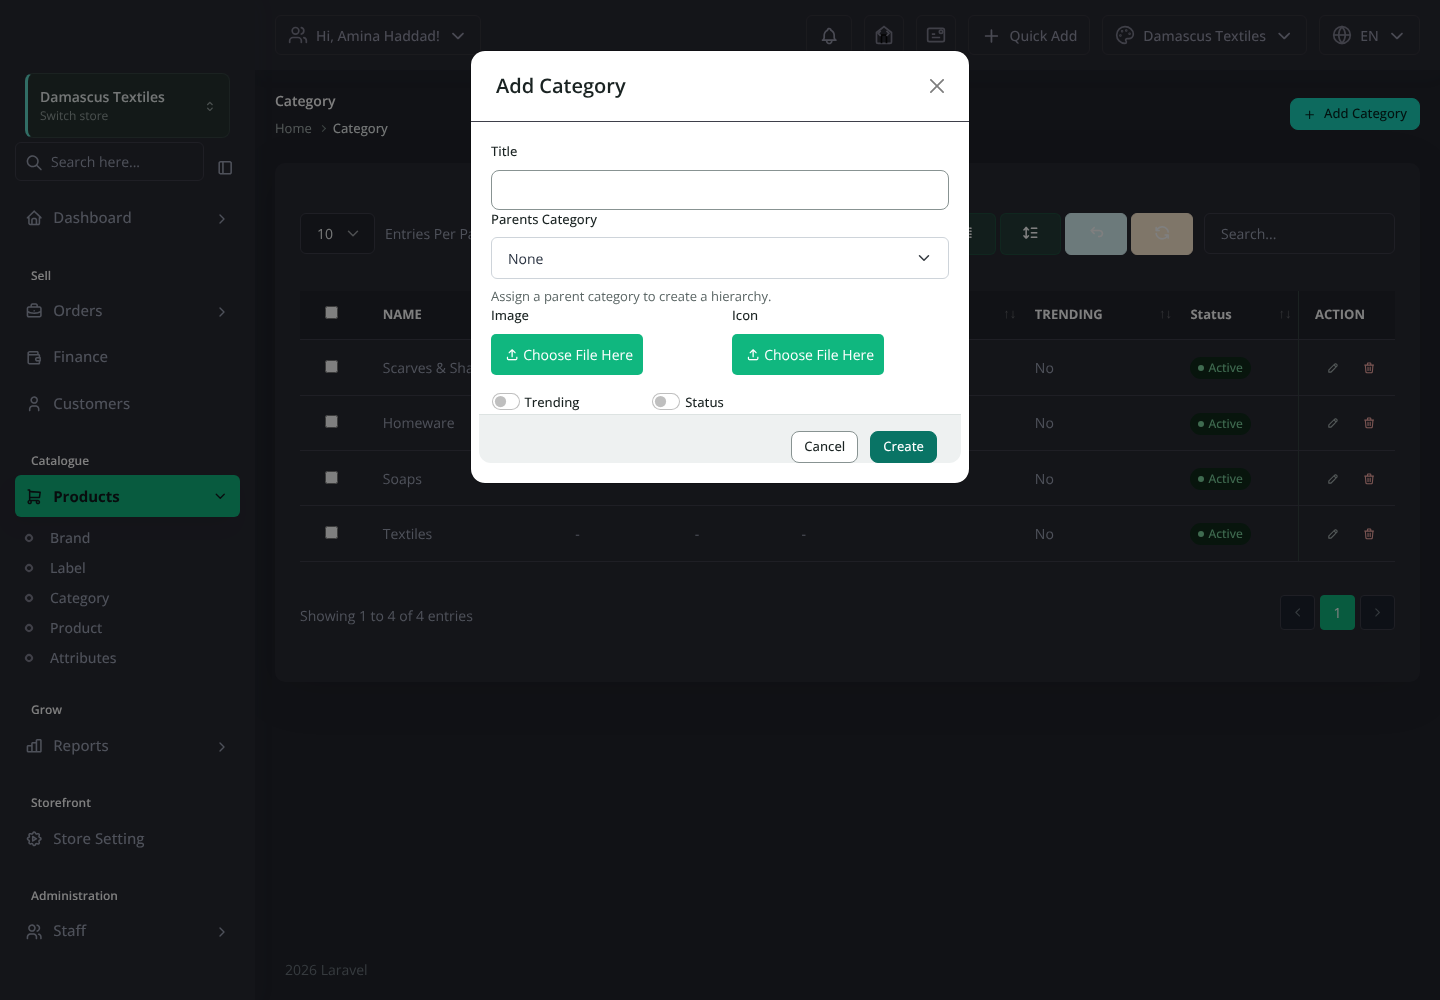
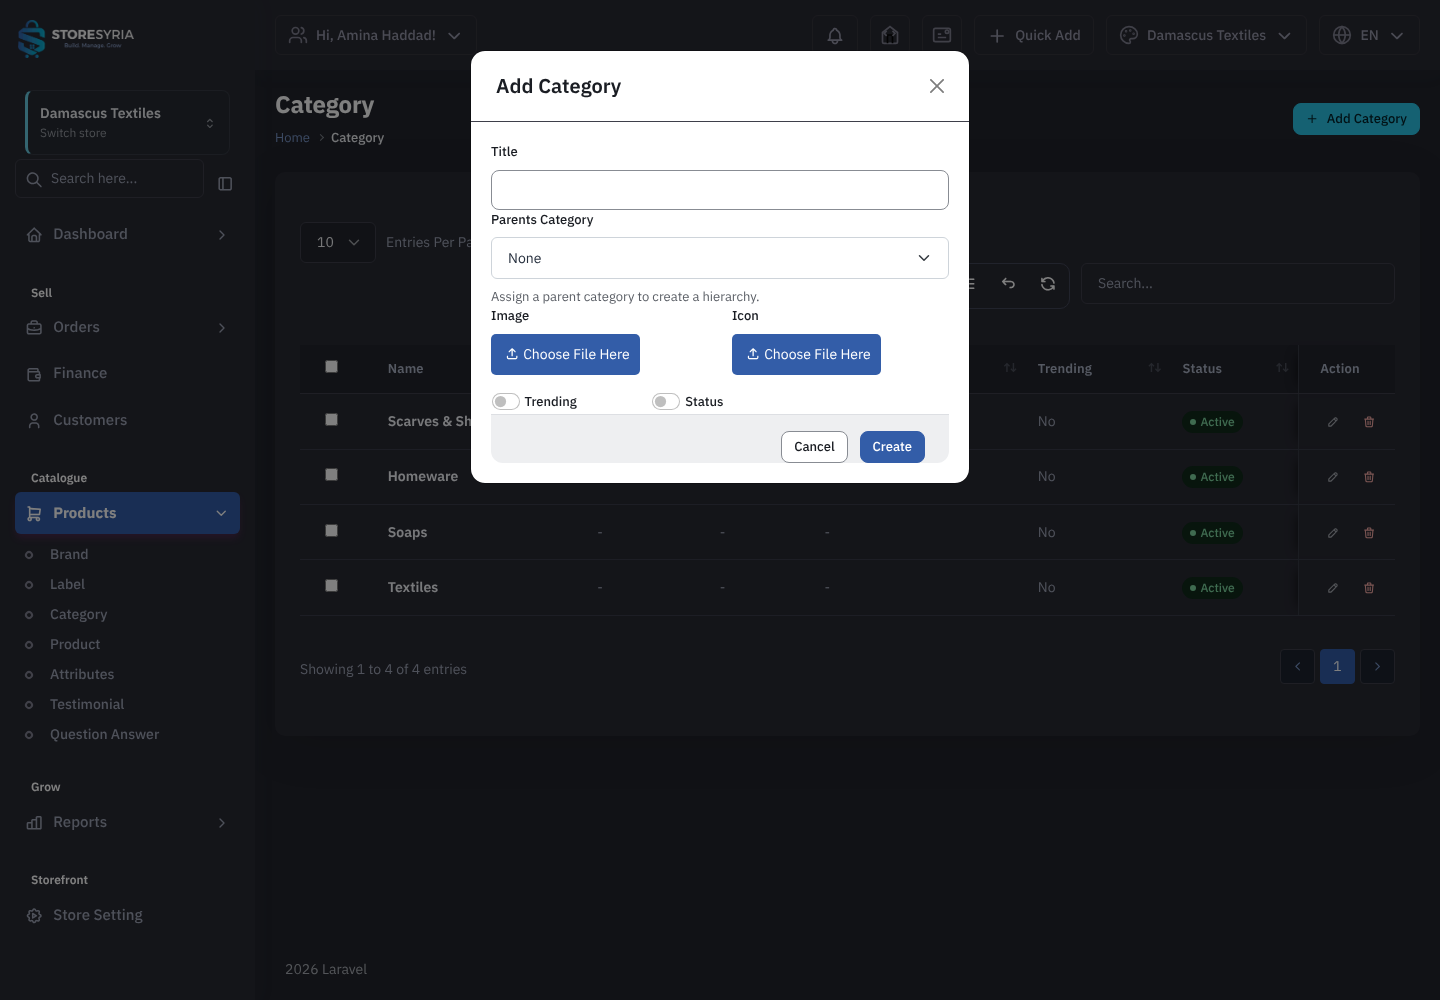
P2.5-WAVE-31: the light surfaces, and the dark ink, that survive dark mode on the page
FOUND BY CENSUS, NOT BY READING. census-light-surfaces-in-dark.cjs (new) drives 31 merchant routes
in dark mode and reports every element painting an OPAQUE background above 0.72 luminance over an
area large enough to read as a SURFACE rather than a chip or an avatar. A class-name grep cannot
answer this: `bg-white` appears 40 times in resources/views and most are Tailwind components that
never load, while three of the four findings came from theme rules carrying no telling class.

    /finance              div.card-header.bg-white   1145x55  lum 1.00
    /finance              select.form-select          249x41  lum 1.00
    /finance/withdrawals  a.btn.btn-sm.btn-light      137x31  lum 0.98
    dashboard +3 routes   div.cat-img                  75x60  lum 0.95
    /profile              a.list-group-item           268x54  lum 1.00

After: 0 light surfaces across the same 31 routes (20 before Wave 30, 8 after it).

THE HEADER IS FIXED IN THE MARKUP. `bg-white` is Bootstrap's `!important` utility and it is simply
wrong on a card that has a theme; `.card-header` already follows `--bs-card-cap-bg` without it. An
override would have left a wrong declaration alive underneath a correct one.

AND REMOVING IT EXPOSED A LARGER DEFECT THE CENSUS COULD NOT SEE. The white block was hiding dark
ink: with it gone the heading measured 1.10:1 on the dark card -- a regression I introduced and
the measurement caught. Measuring the family showed that regression was the SMALL half:
[…]

diff --git a/public/css/store-syria-ds.css b/public/css/store-syria-ds.css
@@ -3570,6 +3570,69 @@ a.ss-setup__item:focus-visible {
     .ss-command { inset-block-start: var(--ss-space-4); }
 }
 
+/* ---- P2.5-WAVE-31: the light surfaces that survive dark mode --------------------------------
+   FOUND BY CENSUS, not by reading: census-light-surfaces-in-dark.cjs drives 31 merchant routes
+   with the admin in DARK mode and reports every element painting an OPAQUE background above 0.72
+   luminance over an area large enough to read as a SURFACE rather than a chip or an avatar. A
+   class-name grep cannot answer this -- `bg-white` appears 40 times in resources/views and most
+   are Tailwind components that never load -- and a light surface can equally arrive from a theme
+   rule with no telling class at all, which is how three of these four were found.
+
+       /finance              select.form-select          249x41   lum 1.00
+       /finance/withdrawals  a.btn.btn-sm.btn-light      137x31   lum 0.98
+       dashboard + 3 more    div.cat-img                  75x60   lum 0.95
+       /profile              a.list-group-item           268x54   lum 1.00
+
+   (The fifth, `/finance`'s `.card-header.bg-white` at 1145x55, is fixed in the MARKUP instead:
+   the utility is simply wrong there and `.card-header`'s own `--bs-card-cap-bg` already follows
+   the theme. An override would have kept a wrong declaration alive under a correct one.)
+
+   `.dash-content` IS THE CONFINEMENT, AND IT IS LOAD-BEARING. All four were MEASURED inside it
+   and none inside a `.modal`. That matters because `.modal-content` is deliberately WHITE in dark
+   mode -- the host keeps it so, P2.5-A-01 accepted that and fixed the INK on it instead, and
+   check-dark-form-surfaces-live.cjs re-verifies 20 checks across both directions. A dark arm
+   written as `[data-ss-theme="dark"] .form-select` would have reached into those modals and
+   undone that verified work; this cannot, because modals are appended to <body> outside
+   `.dash-content`. */
+[data-ss-theme="dark"] .dash-content .form-select,
+[data-ss-theme="dark"] .dash-content .list-group-item {
+    background-color: var(--ss-surface);
+    color: var(--ss-fg);
+}
+
+/* AND THE HEADING ON THAT CARD, which the background census could not see. Removing the
+   `bg-white` utility from `/finance` took away a 1145x55 white block and left its heading dark on
+   a dark card -- a regression the measurement caught at 1.10:1. Measuring the family then showed
+   the regression was the SMALL half of the finding: `.card-header` text was ALREADY 1.10:1 on
+   `/finance/withdrawals`, `/stock-reports`, `/profile`, `/blog` and `/pages`.
+
+       .card-header text contrast, dark page, composited:  9 of 10 below AA, eight of them
+       pre-existing. /dashboard is the one that passes, at 11.83:1.
+
+   THE CAUSE IS HALF A THEME. `.card-header` takes its background from `--bs-card-cap-bg`, which
+   the host's dark stylesheet leaves transparent so the card shows through -- correct -- and its
+   text from `--bs-card-cap-color`, which it does NOT redefine, so the colour stays the dark ink
+   chosen for a white cap. A heading nobody can read is not a lesser defect than a white block;
+   it is just one a background census cannot find, which is why this rule exists beside one. */
+[data-ss-theme="dark"] .dash-content .card-header {
+    color: var(--ss-fg);
+}
+
+/* A "light" button is a NAME, not an instruction to be white: it means the quiet one in the set.
+   On a dark page the quiet one is the subtle surface, not a 0.98-luminance block. */
+[data-ss-theme="dark"] .dash-content .btn-light {
+    background-color: var(--ss-surface-hover);
+    color: var(--ss-fg);
+}
+
+/* The image placeholder box. `#f3f3f3` is hard-coded in the host's own
+   `.dash-order-status .dash-category-tab-content .cat-img` with no dark counterpart, so a product
+   with no image left a pale square on the dark dashboard. Sunken rather than surface: it is a
+   hole waiting for an image, not a card. */
+[data-ss-theme="dark"] .dash-content .cat-img {
+    background-color: var(--ss-surface-sunken);
+}
+
 /* ---- P2.5-WAVE-30: the toast a merchant cannot read ------------------------------------------
    THE FEEDBACK SURFACE OF THE WHOLE ADMIN, measured with full alpha compositing on `/pages` in
    both themes. Every figure below is the composited ratio against the panel the text actually

diff --git a/tests/Unit/Ui/DarkPageSurfaceTest.php b/tests/Unit/Ui/DarkPageSurfaceTest.php
@@ -1,0 +1,163 @@
+<?php
+
+namespace Tests\Unit\Ui;
+
+use PHPUnit\Framework\TestCase;
+
+/**
+ * P2.5-WAVE-31 — the light surfaces, and the dark ink, that survive dark mode on the PAGE.
+ * ================================================================================================
+ *
+ * FOUND BY CENSUS. `census-light-surfaces-in-dark.cjs` drives 31 merchant routes with the admin in
+ * dark mode and reports every element painting an OPAQUE background above 0.72 luminance over an
+ * area large enough to read as a SURFACE rather than a chip or an avatar. A class-name grep cannot
+ * answer this: `bg-white` appears 40 times in resources/views and most of those are Tailwind
+ * components that never load, while three of the four findings arrived from theme rules carrying
+ * no telling class at all.
+ *
+ *     /finance              div.card-header.bg-white   1145x55   lum 1.00
+ *     /finance              select.form-select          249x41   lum 1.00
+ *     /finance/withdrawals  a.btn.btn-sm.btn-light      137x31   lum 0.98
+ *     dashboard +3          div.cat-img                  75x60   lum 0.95
+ *     /profile              a.list-group-item           268x54   lum 1.00
+ *
+ * AFTER: 0 light surfaces across the same 31 routes.
+ *
+ * THE HEADER IS FIXED IN THE MARKUP, NOT OVERRIDDEN. `bg-white` is Bootstrap's `!important`
+ * utility and it is simply wrong on a card that has a theme; `.card-header`'s own
+ * `--bs-card-cap-bg` already follows it. An override would have left a wrong declaration alive
+ * underneath a correct one.
+ *
+ * AND REMOVING IT EXPOSED A LARGER DEFECT THE CENSUS COULD NOT SEE. The white block was hiding
+ * dark ink: with it gone the heading measured 1.10:1 on the dark card. Measuring the family showed
+ * that regression was the SMALL half -- `.card-header` text was ALREADY 1.10:1 on
+ * /finance/withdrawals, /stock-reports, /profile, /blog and /pages. Nine of ten below AA, eight of
+ * them pre-existing, because the host's dark stylesheet redefines `--bs-card-cap-bg` and not
+ * `--bs-card-cap-color`. A heading nobody can read is not a lesser defect than a white block; it
+ * is one a BACKGROUND census cannot find. After: 10 of 10 at 11.83:1.
+ *
+ * `.dash-content` IS LOAD-BEARING CONFINEMENT, not decoration. `.modal-content` is deliberately
+ * WHITE in dark mode: the host keeps it so, P2.5-A-01 accepted that and fixed the INK on it, and
+ * check-dark-form-surfaces-live.cjs re-verifies 20 checks across both directions. A dark arm
+ * written as `[data-ss-theme="dark"] .form-select` reaches into those modals and undoes that
+ * verified work. Modals are appended to <body>, outside `.dash-content`, so this cannot.
+ */
+class DarkPageSurfaceTest extends TestCase
+{
+    private const DS_SHEET = 'public/css/store-syria-ds.css';
+    private const FINANCE = 'resources/views/finance/index.blade.php';
+
+    /** Every selector in the block must carry this, or it can reach the white modals. */
+    private const CONFINEMENT = '[data-ss-theme="dark"] .dash-content';
+
+    public function test_the_finance_card_header_does_not_force_white(): void
+    {
+        $this->assertDoesNotMatchRegularExpression(
+            '/class="[^"]*\bcard-header\b[^"]*\bbg-white\b/',
+            $this->read(self::FINANCE),
+            'The `bg-white` utility is back on the finance card header. It is `!important` and has '
+            . 'no dark arm, so it paints 1145x55 of pure white on the dark page -- measured at '
+            . 'luminance 1.00. `.card-header` already follows the theme without it.'
+        );
+    }
+
+    public function test_every_dark_arm_is_confined_to_the_page_and_cannot_reach_a_modal(): void
+    {
+        $block = $this->block();
+
+        $this->assertNotSame('', $block, 'store-syria-ds.css has no P2.5-WAVE-31 block.');
+
+        preg_match_all('/^([^{}\n][^{}]*)\{/m', $block, $found);
+
+        $this->assertNotEmpty($found[1], 'The WAVE-31 block declares no rules.');
+
+        foreach ($found[1] as $selectorList) {
+            foreach (explode(',', $selectorList) as $selector) {
+                $selector = trim($selector);
+
+                if ($selector === '') {
+                    continue;
+                }
+
+                $this->assertStringStartsWith(
+                    self::CONFINEMENT,
+                    $selector,
+                    'A WAVE-31 rule is not confined to `' . self::CONFINEMENT . '`: ' . $selector
+                    . '. Modals are appended to <body> outside `.dash-content`, and `.modal-content` '
+                    . 'is deliberately WHITE in dark mode with its ink fixed by P2.5-A-01. An '
+                    . 'unconfined dark arm darkens those modals and undoes 20 verified checks.'
+                );
+            }
+        }
+    }
+
+    public function test_the_block_repairs_the_heading_ink_as_well_as_the_surfaces(): void
+    {
+        $block = $this->block();
+
+        $this->assertMatchesRegularExpression(
+            '/\.card-header\s*\{[^}]*color:\s*var\(--ss-fg\)/s',
+            $block,
+            'The card heading no longer takes its colour from the theme. The host redefines '
+            . '`--bs-card-cap-bg` for dark mode and NOT `--bs-card-cap-color`, so without this the '
+            . 'heading is dark ink on a dark card: measured 1.10:1 on nine of ten headers.'
+        );
+
+        foreach (['.form-select', '.btn-light', '.cat-img', '.list-group-item'] as $surface) {
+            $this->assertStringContainsString(
+                $surface,
+                $block,
+                'The dark arm for ' . $surface . ' is gone; the census found it painting a light '
+                . 'surface on the dark page.'
+            );
+        }
+
+        $this->assertDoesNotMatchRegularExpression(
+            '/:\s*#[0-9a-f]{3,8}\b/i',
+            $block,
+            'A literal colour appeared in the WAVE-31 block. These are dark arms: a hex cannot '
+            . 'follow a theme, and the palette is a token system two earlier slices re-solved.'
+        );
+    }
+
+    public function test_the_census_tool_is_committed_so_the_figures_can_be_re_run(): void
+    {
+        $this->assertFileExists(
+            dirname(__DIR__, 3) . '/docs/development/phase-2.5/tools/census-light-surfaces-in-dark.cjs',
+            'The census that produced this wave\'s numbers is gone, so nobody can re-run or argue '
+            . 'with them.'
+        );
+    }
+
+    private function block(): string
+    {
+        $css = $this->read(self::DS_SHEET);
+        $open = strpos($css, 'P2.5-WAVE-31: the light surfaces that survive dark mode');
+        $end = strpos($css, 'P2.5-WAVE-30: the toast a merchant cannot read', (int) $open);
+
+        if ($open === false || $end === false || $end < $open) {
+            return '';
+        }
+
+        $block = substr($css, $open, $end - $open);
+
+        /* the slice starts inside the opening comment, so its tail has no `/*` to pair with */
+        if (($close = strpos($block, '*/')) !== false) {
+            $first = strpos($block, '/*');
+
+            if ($first === false || $close < $first) {
+                $block = substr($block, $close + 2);
+            }
+        }
+
+        return (string) preg_replace('#/\*.*?\*/#s', '', $block);
+    }
+
+    private function read(string $relative): string
+    {
+        $path = dirname(__DIR__, 3) . '/' . $relative;
+        $this->assertFileExists($path, $relative . ' is missing.');
+
+        return (string) file_get_contents($path);
+    }
+}

diff --git a/resources/views/finance/index.blade.php b/resources/views/finance/index.blade.php
@@ -180,7 +180,11 @@
 
 {{-- نظام Tabs المحسن --}}
 <div class="card">
-    <div class="card-header bg-white border-bottom-0 pt-3 pb-0">
+    {{-- `bg-white` REMOVED (P2.5-WAVE-31). Bootstrap's utility is `!important` and has no dark
+                             arm, so this header rendered 1145x55 of PURE WHITE on the dark page -- measured
+                             lum 1.00. `.card-header`'s own `var(--bs-card-cap-bg)` already follows the theme,
+                             which is why removing the utility is the fix and an override would not be. --}}
+                        <div class="card-header border-bottom-0 pt-3 pb-0">
         <ul class="nav nav-pills finance-tabs justify-content-center gap-2" id="financeTabs" role="tablist">
             <li class="nav-item" role="presentation">
                 <button class="nav-link active" 

diff --git a/docs/development/phase-2.5/PHASE-2.5-WAVE-31-REPORT-AR.md b/docs/development/phase-2.5/PHASE-2.5-WAVE-31-REPORT-AR.md
@@ -1,0 +1,85 @@
+# المرحلة 2.5 — الموجة 31: الأسطح الفاتحة التي تنجو من الوضع الداكن
+
+**التاريخ:** 2026-11-06 · **الفرع:** `claude/busy-edison-k0pjwa` · **المهمّة:** #64
+
+---
+
+## 1. كيف وُجدت
+
+لا بالقراءة. كُتبت `census-light-surfaces-in-dark.cjs`: تقود **31 مساراً** للتاجر والواجهة في
+الوضع الداكن، وتُبلغ عن كلّ عنصرٍ يرسم خلفيّةً **معتمة** سطوعها فوق 0.72 بمساحةٍ تكفي ليُقرأ
+**سطحاً** لا شارةً أو صورةً رمزيّة.
+
+وبحثُ أسماء الأصناف لا يُجيب هذا السؤال: `bg-white` ترد **أربعين مرّة** في العروض وأكثرها مكوّنات
+Tailwind لا تُحمَّل أصلاً — بينما **ثلاثة من أربعة** ممّا وُجد جاء من قواعد ثيمٍ بلا أيّ صنفٍ
+يدلّ عليه.
+
+## 2. ما وُجد، وما صار
+
+| الموضع | قبل | بعد |
+|---|---|---|
+| `/finance` رأس البطاقة | **1145×55 أبيض خالص، سطوع 1.00** | يتبع البطاقة |
+| `/finance` حقل الاختيار | 249×41 سطوع 1.00 | سطح داكن |
+| `/finance/withdrawals` زرّ خفيف | 137×31 سطوع 0.98 | سطح داكن هادئ |
+| لوحة التحكّم و3 شاشات: مربّع الصورة | 75×60 سطوع 0.95 | سطح غائر |
+| `/profile` عنصر القائمة | 268×54 سطوع 1.00 | سطح داكن |
+
+**صفر سطحٍ فاتح** عبر الـ31 مساراً بعد الإصلاح، بعد أن كانت **عشرين** قبل الموجة 30.
+
+## 3. رأس البطاقة أُصلح في **الترميز** لا بتجاوزٍ فوقه
+
+`bg-white` أداة Bootstrap بـ`!important` وهي **خاطئة ببساطة** على بطاقةٍ لها سمة، و`.card-header`
+يتبع `--bs-card-cap-bg` أصلاً. فالتجاوز كان سيُبقي إعلاناً خاطئاً حيّاً تحت إعلانٍ صحيح.
+
+## 4. وإزالتها كشفت عيباً أكبر لم يستطع الإحصاء رؤيته
+
+الكتلة البيضاء كانت **تُخفي حبراً داكناً**. وبزوالها قِيس العنوان عند **1.10:1** على بطاقةٍ داكنة
+— انحدارٌ أحدثه إصلاحي. وقياس العائلة أظهر أنّ انحداري **النصف الأصغر** من المسألة:
+
+```
+نصّ .card-header على الصفحة الداكنة، مُركَّباً:   9 من 10 دون AA
+   /finance  /finance/withdrawals  /stock-reports  /profile ×2  /blog ×2  /pages ×2
+   ثمانيةٌ منها قائمةٌ قبل تغييري. و/dashboard وحدها تعبر، عند 11.83:1.
+```
+
+**والسبب نصف سمة**: الورقة الداكنة للثيم تُعيد تعريف `--bs-card-cap-bg` — فالرأس شفّاف وتظهر
+البطاقة تحته، وهذا صحيح — **ولا تُعيد تعريف `--bs-card-cap-color`**، فيبقى الحبر الداكن المُختار
+لرأسٍ أبيض.
+
+**وعنوانٌ لا يُقرأ ليس عيباً أهون من كتلةٍ بيضاء** — إنّما هو عيبٌ **لا يجده إحصاء خلفيّات**. ولذلك
+تقع قاعدته بجوار إحصاءٍ وُجد به ما وُجد.
+
+**بعد:** 10 من 10 عند **11.83:1**. وفي الوضع الفاتح 12.93:1 بلا رسوب — ورأس المالية صار مطابقاً
+لإخوته بعد أن كان يفرض بياضه.
+
+## 5. `.dash-content` حصرٌ حامل، لا زينة
+
+النوافذ المنبثقة **بيضاء عمداً** في الوضع الداكن: الثيم يُبقيها كذلك، و**P2.5-A-01 قبل ذلك وأصلح
+الحبر عليها**، و`check-dark-form-surfaces-live.cjs` يُعيد التحقّق بعشرين فحصاً في الاتجاهين.
+
+فذراعٌ داكنة تُكتب `[data-ss-theme="dark"] .form-select` كانت ستدخل تلك النوافذ **وتنقض ذلك العمل
+المُتحقَّق منه**. والنوافذ تُلحَق بـ`<body>` **خارج** `.dash-content`، فالحصر يمنع ذلك بنيويّاً.
+وقيساً: الأربعة كلّها داخل `.dash-content` ولا واحد داخل `.modal`.
+
+**والتحقّق بعد الإصلاح: 20 فحصاً، صفر رسوب.** لم يُمَسّ شيء من A-01.
+
+## 6. أربع فرضياتٍ لي فنّدها القياس في هذه الموجة
+
+1. **«14 حقلاً من 14 بيضاء في `/coupon/create`»** — تصفّحتُ إلى `coupon/create` مباشرةً وقِستها.
+   وهي **شظيّة بلا `@extends`** تُحقَن في نافذةٍ عبر AJAX، فما قِسته صفحةٌ عارية بلا أوراق أنماط
+   **لا يراها تاجرٌ أبداً**. وفتحُ النافذة الحقيقية أعطى **صفر من تسعة**.
+2. **«النوافذ بيضاء في الوضع الداكن — عيب»** — بل **قرارٌ مُسجَّل ومُنفَّذ** (P2.5-A-01)، ونهجه
+   تصحيح الحبر لا إعتام السطح.
+3. **«حقول النماذج بيضاء عموماً»** — أداة المشروع نفسها: **20 فحصاً، صفر رسوب**.
+4. **«`btn-light` تركتها DESIGN-E عمداً»** — بل كانت DESIGN-E عن `btn-light-primary`، صنفٍ آخر.
+
+## 7. الحالة
+
+| | |
+|---|---|
+| `--testsuite=Unit` | **1337 ناجحاً** |
+| `--testsuite=Contract` | **27 ناجحاً** |
+| المِرْقاة | `DarkPageSurfaceTest` — 4 اختبارات، 18 تأكيداً، **أربع طفراتٍ كلّها تُحمِرّ** |
+| الأدوات | `census-light-surfaces-in-dark.cjs` مُلتزَمة، فالأرقام تُعاد وتُناقَش |
+
+**لا دمج في `main`، ولا نشر إنتاجي.**
